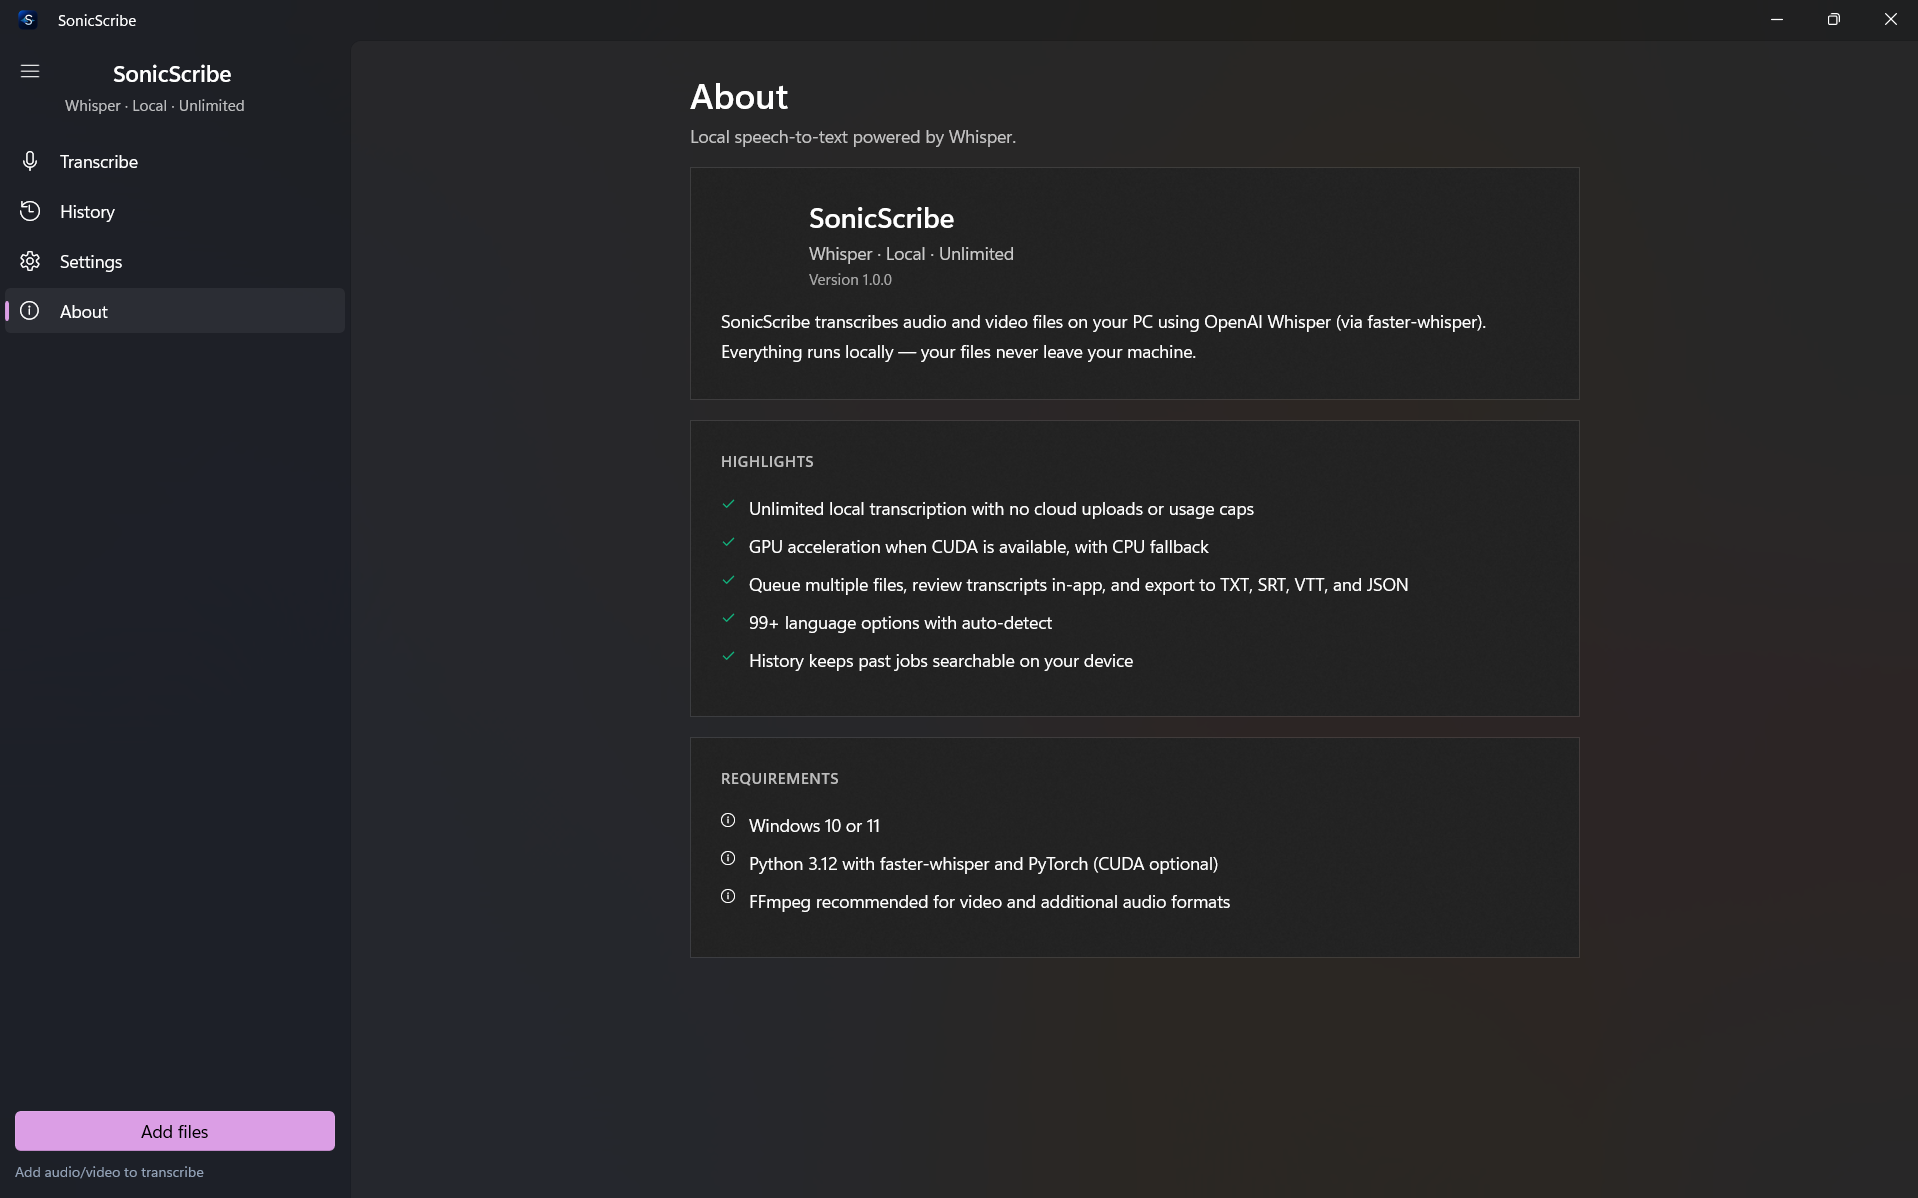
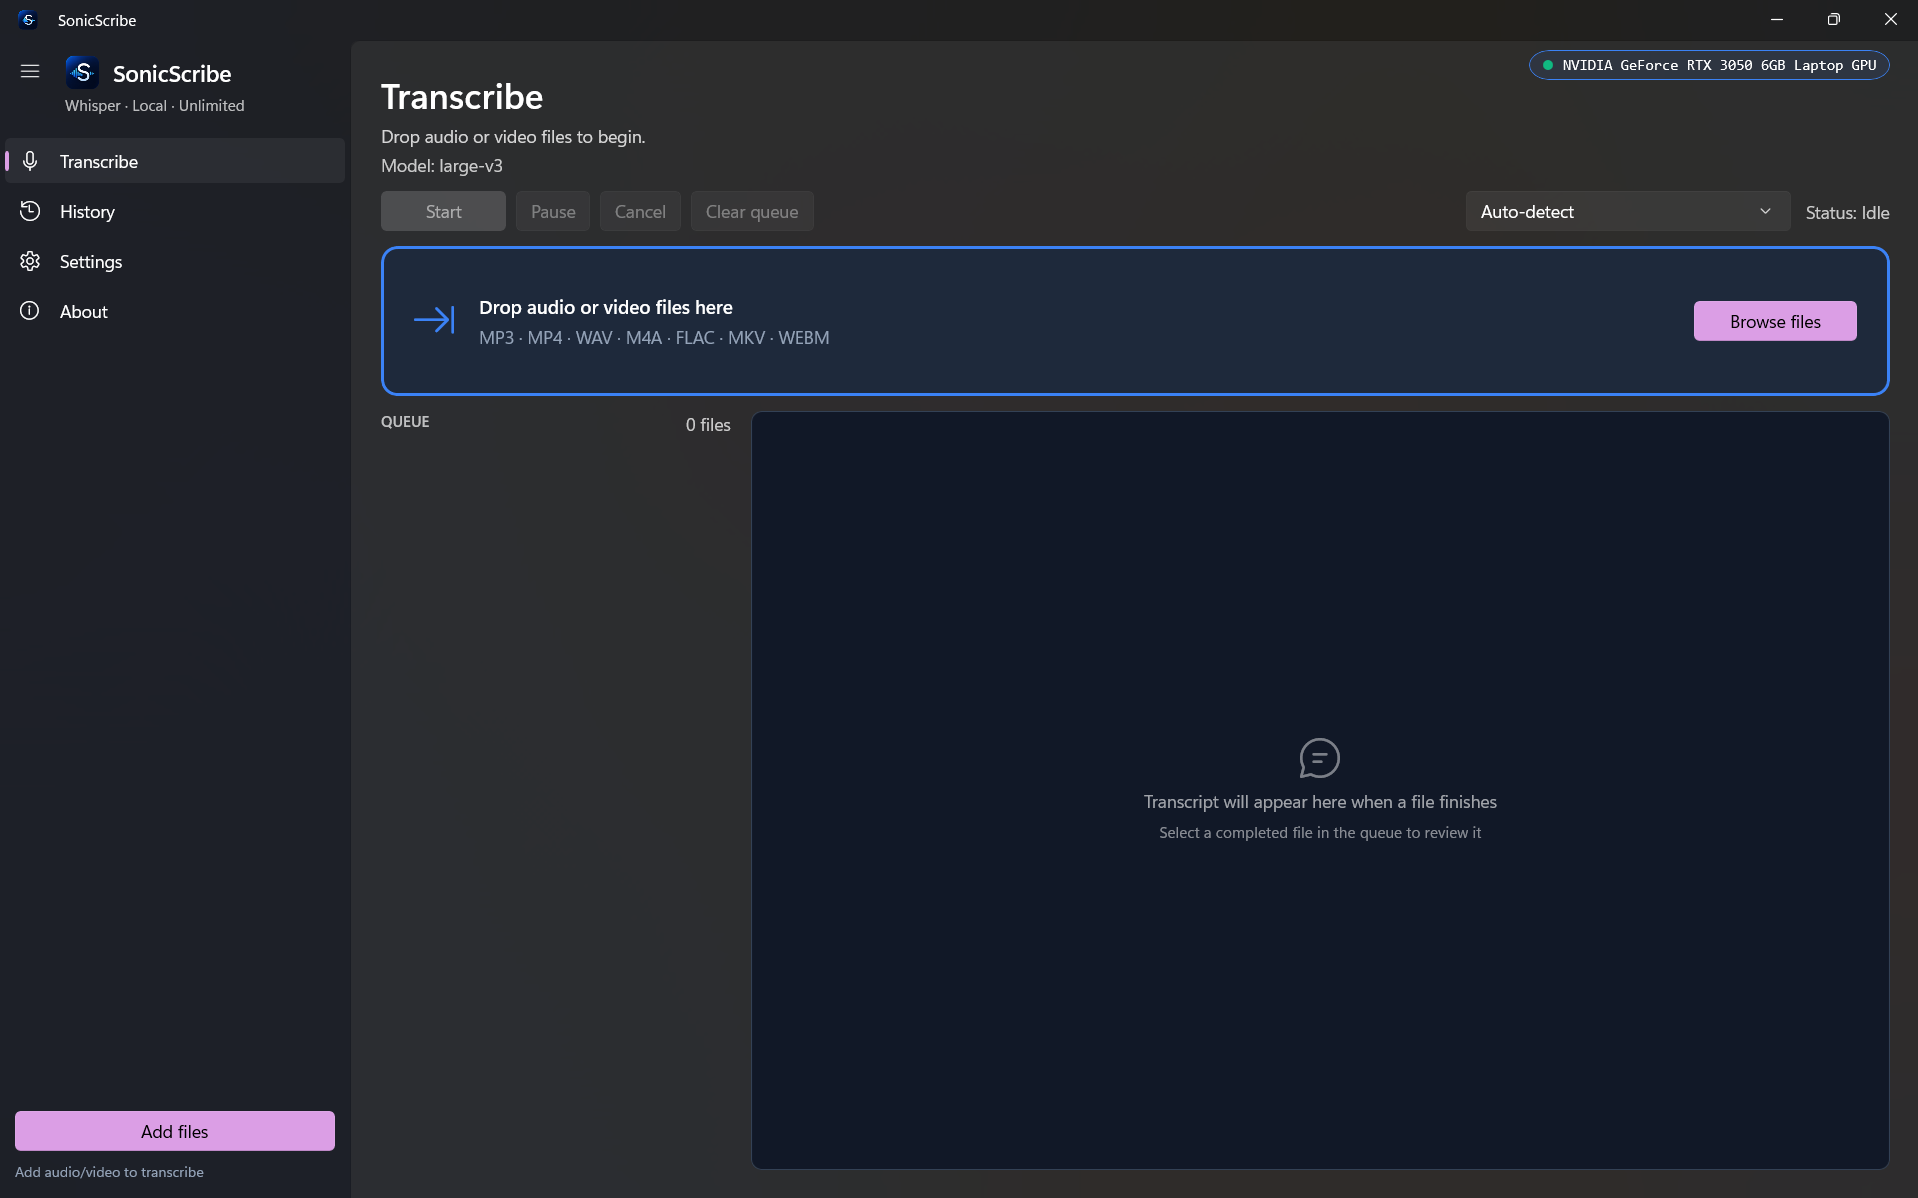
Use Transcribe page screenshot on README

diff --git a/README.md b/README.md
@@ -26,7 +26,7 @@
 ---
 
 <p align="center">
-  <img src="docs/screenshot.png" alt="SonicScribe About screen" width="900" />
+  <img src="docs/screenshot.png" alt="SonicScribe Transcribe screen" width="900" />
 </p>
 
 ---